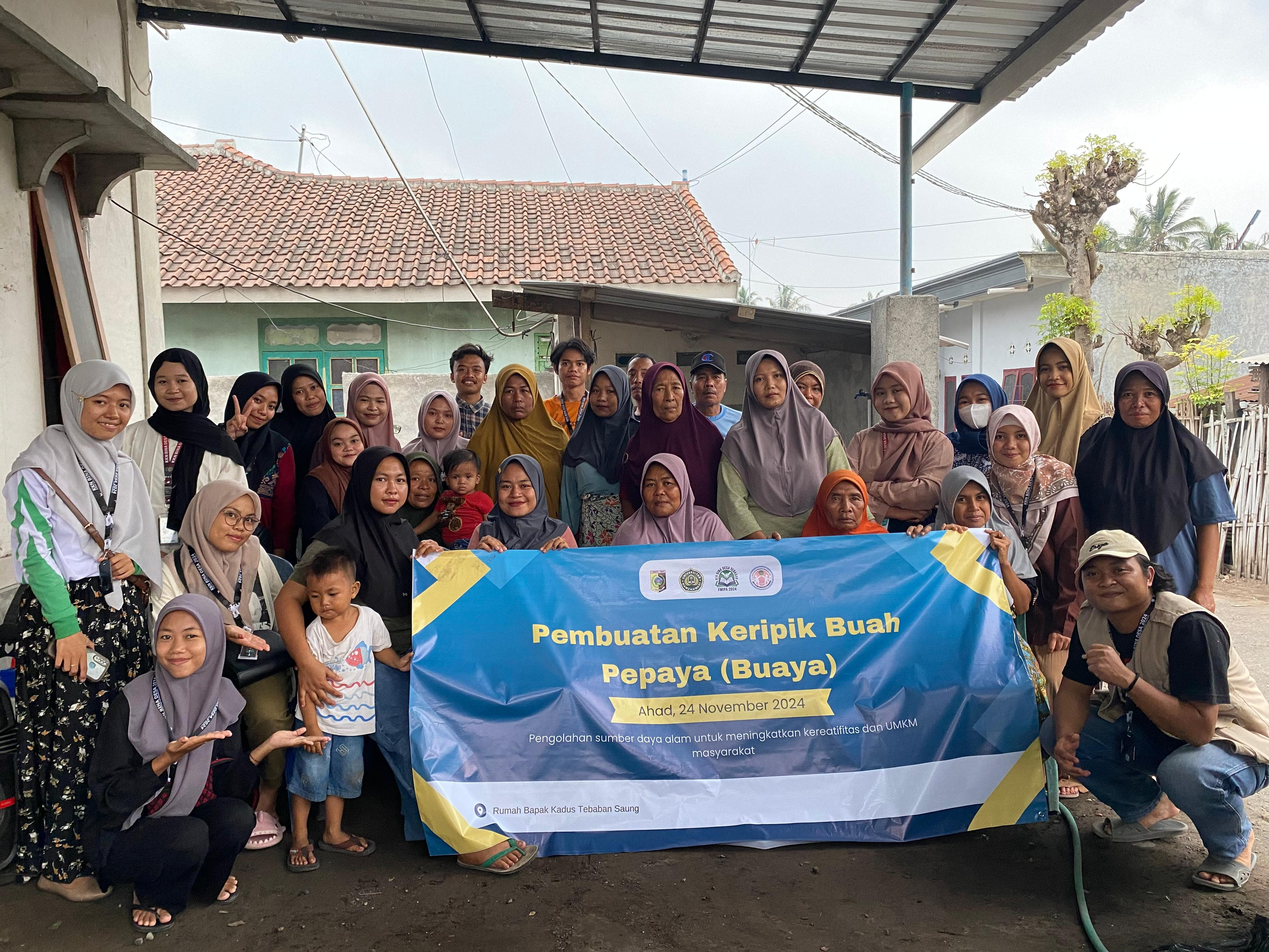
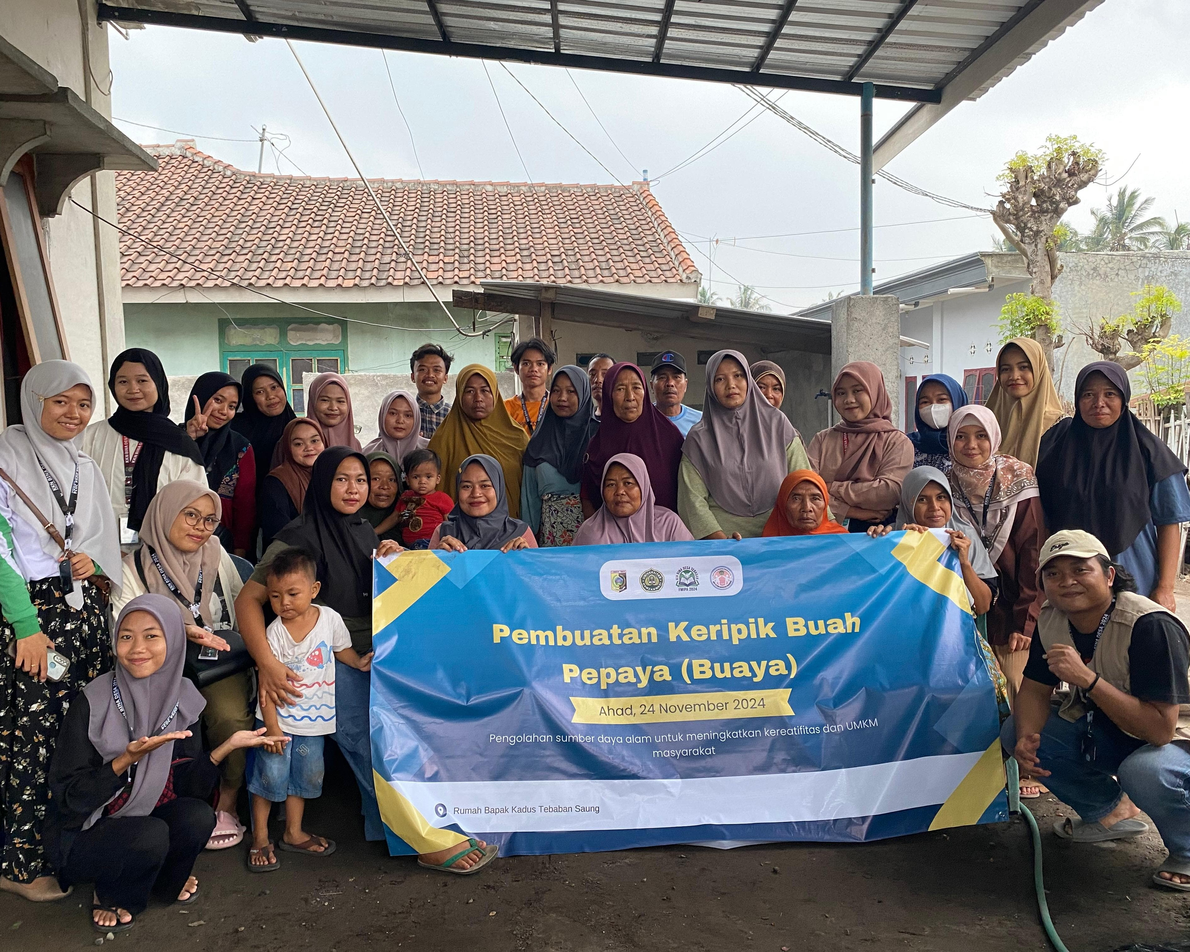
feat/landingPage/done

diff --git a/src/app/page.tsx b/src/app/page.tsx
@@ -1,13 +1,35 @@
 import Smile from "@/Components/Icon/Smile";
+import ImageSwippe from "@/Components/Info/ImageSwippe";
 import Cover from "@/Components/Template/Cover";
 import Footer from "@/Components/Template/Footer";
 import Youtube from "@/Components/Template/Youtube";
 import Image from "next/image";
+
+const InfoImage = [
+  {
+    id: 1,
+    image: "/image/image1.jpg",
+    title: "Sosialiasi Pembuatan Keirpik Pepaya",
+  },
+  {
+    id: 2,
+    image: "/image/gambar4.jpg",
+    title: "Demontrasi Pembuatan Keirpik Pepaya Kepada Masyarakat",
+  },
+  {
+    id: 3,
+    image: "/image/gambar3.jpg",
+    title: "Foto bersama masyarakat desa tebaban usai kegiatan sosialisasi",
+  },
+];
 export default function Home() {
   return (
     <div>
       <Cover />
-      <div className="p-5 border-b-4 border-secondary bg-primary mt-10" id="section2">
+      <div
+        className="p-5 border-b-4 border-secondary bg-primary mt-10"
+        id="section2"
+      >
         <h1 className="text-[18px] text-white font-semibold text-center">
           Bro & Sist Produk ini sudah didukung oleh :
         </h1>
@@ -46,7 +68,15 @@ export default function Home() {
         </p>
       </div>
 
-      <div className="mt-10 mb-20">
+      <div className="mt-10 mb-10 p-2">
+        <h1 className="text-[24px] lg:text-3xl text-secondary font-black text-center mb-4">
+          Sosialisasi pembuatan <span className="text-primary">keripik pepaya</span>{" "}
+          Kepada Masayakat Desa Tebaban
+        </h1>
+        <ImageSwippe data={InfoImage} />
+      </div>
+
+      <div className="mt-10 mb-20 ">
         <h1 className="text-[24px] lg:text-3xl text-secondary font-black text-center mb-4">
           Video pembuatan <span className="text-primary">keripik pepaya</span>{" "}
           di Youtube

diff --git a/src/Components/Template/Product.tsx b/src/Components/Template/Product.tsx
@@ -27,13 +27,13 @@ const Product = ({ data }: ProductData) => {
             lineColor=""
             className="mb-4"
           />
-          <h3 className="text-[16x] sm:text-[26px] md:text-[28px] lg:text-[24px] text-secondary font-bold text-center">
+          <h3 className="text-[20px] sm:text-[26px] md:text-[28px] lg:text-[24px] text-secondary font-bold text-center">
             {e.title}
           </h3>
-          <p className="text-success text-[10px] sm:text-[18px] md:text-[20px] lg:text-[14px] text-center leading-relaxed mt-2 max-w-lg mx-auto">
+          <p className="text-success text-[16px] sm:text-[18px] md:text-[20px] lg:text-[14px] text-center leading-relaxed mt-2 max-w-lg mx-auto">
             {e.description}
           </p>
-          <p className="mt-2 text-sm font-bold text-success">Rp. {e.price}</p>
+          <p className="mt-2 text-md lg:text-sm font-bold text-success">Rp. {e.price}</p>
           <div className="mt-4">
             <Button name="Order Sekarang" />
           </div>

diff --git a/src/Components/Info/ImageSwippe.tsx b/src/Components/Info/ImageSwippe.tsx
@@ -1,0 +1,41 @@
+"use client"
+import React from "react";
+import { Swiper, SwiperSlide } from "swiper/react";
+import { Navigation, Pagination, Autoplay } from "swiper/modules";
+import "swiper/swiper-bundle.css";
+import ImageInfo from "../Template/ImageInfo";
+
+interface ImageData {
+  id: number;
+  image: string;
+  title: string;
+}
+
+interface DataProps {
+  data: ImageData[];
+}
+
+const ImageSwippe: React.FC<DataProps> = ({ data }) => {
+  return (
+    <div>
+      <Swiper
+        modules={[Navigation, Pagination, Autoplay]}
+        spaceBetween={50}
+        slidesPerView={1}
+        loop={true}
+        autoplay={{ delay: 4000,disableOnInteraction: false }}
+        effect="fade"
+        speed={1000}
+        
+      >
+        {data.map((information) => (
+          <SwiperSlide key={information.id}>
+            <ImageInfo image={information.image} title={information.title} />
+          </SwiperSlide>
+        ))}
+      </Swiper>
+    </div>
+  );
+};
+
+export default ImageSwippe;

diff --git a/src/Components/Template/ImageInfo.tsx b/src/Components/Template/ImageInfo.tsx
@@ -1,0 +1,28 @@
+import Image from "next/image";
+import React from "react";
+
+interface imageProps {
+  image: string;
+  title: string;
+}
+
+
+export default function ImageInfo({image , title} : imageProps) {
+  return (
+    <div>
+      <div className="flex flex-col justify-center items-center  p-2">
+        <Image
+          src={image}
+          alt={title}
+          width={600}
+          height={600}
+          style={{ objectFit: "cover" }}
+          className="object-cover rounded-3xl border-4 border-secondary border-b-[7px] "
+        />
+        <div>
+          <p className="text-lg lg:text-2xl mt-4 text-center text-secondary">{title}</p>
+        </div>
+      </div>
+    </div>
+  );
+}

diff --git a/src/Components/Template/Header.tsx b/src/Components/Template/Header.tsx
@@ -43,8 +43,8 @@ const Navbar = () => {
   }, []);
 
   return (
-    <header className={`${scrolled ? "bg-white " : ""}`}>
-      <nav className="flex items-center justify-between p-2 md:p-6 py-3 sm:p-8">
+    <header className={`${scrolled ? "bg-white sticky top-0 z-10" : ""}`}>
+      <nav className="flex items-center justify-between p-1 md:p-4 py-3 sm:p-8">
         <div className="p-2">
           <h1 className="text-3xl md:text-4xl font-black text-primary">
             Keripik Papaya
